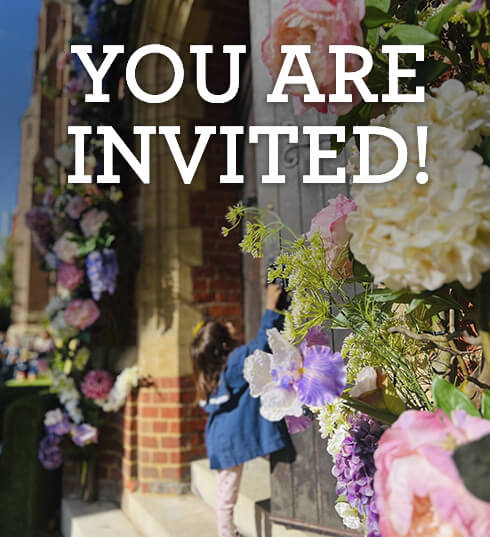
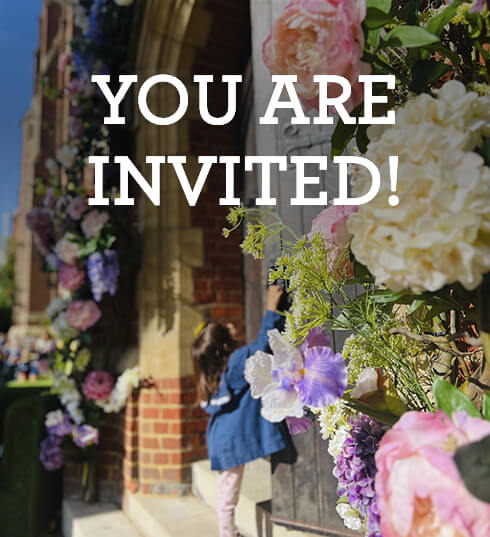
small changes

diff --git a/index.html b/index.html
@@ -172,7 +172,7 @@
                 <tr>
                     <td>&nbsp;</td>
                     <td height="537" colspan="2" class="padding_b">
-                        <img src="https://roberto-unsettled.github.io/NL-invited/main_image.jpg" class="main_image image_regular" alt="You're invited!"/>
+                        <img src="https://roberto-unsettled.github.io/NL-invited/main_image.jpg?v=2" class="main_image image_regular" alt="You're invited!"/>
                     </td>
                     <td>&nbsp;</td>
                 </tr>
@@ -181,7 +181,7 @@
                     <td>&nbsp;</td>
                     <td colspan="2" class="padding_b">
                         <p class="text_regular text_left">
-                            We're thrilled to attach an offer letter for a morning spot starting September 2026, along with our current Terms & Conditions and the Form of Undertaking.
+                            We're thrilled to attach an offer letter for a morning place starting September 2026, along with our current Terms & Conditions and the Form of Undertaking.
                         </p>
                     </td>
                     <td>&nbsp;</td>
@@ -268,14 +268,15 @@
                 
                 <tr>
                     <td width="55" height="0" class="minimum">&nbsp;</td>
-                    <td width="258" height="0" class="minimum">&nbsp;</td>
+                    <td width="243" height="0" class="minimum">&nbsp;</td>
+                    <td width="15" height="0" class="minimum">&nbsp;</td>
                     <td width="232" height="0" class="minimum">&nbsp;</td>
                     <td width="55" height="0" class="minimum">&nbsp;</td>
                 </tr>
                 
                 <tr>
                     <td>&nbsp;</td>
-                    <td colspan="2" class="padding_b">
+                    <td colspan="3" class="padding_b">
                         <p class="text_regular text_left">
                             Once we have those, we’ll send you a confirmation email, and it’s official!
                         </p>
@@ -283,7 +284,7 @@
                     <td>&nbsp;</td>
                 </tr>
                 <tr>
-                    <td colspan="4" class="padding_b_small minimum">&nbsp;</td>
+                    <td colspan="5" class="padding_b_small minimum">&nbsp;</td>
                 </tr>
                 <tr >
                     <td>&nbsp;</td>
@@ -295,17 +296,18 @@
                             Our T&Cs update every year, so we’ll make sure to send you the latest version when the time comes.
                         </p>
                     </td>
+                    <td>&nbsp;</td>
                     <td height="200">
                         <img src="https://roberto-unsettled.github.io/NL-invited/heads_up.jpg" class="image_tc image_regular" alt="Our T&C"/>
                     </td>
                     <td>&nbsp;</td>
                 </tr>
                 <tr>
-                    <td colspan="4" class="padding_b minimum">&nbsp;</td>
+                    <td colspan="5" class="padding_b minimum">&nbsp;</td>
                 </tr>
                 <tr>
                     <td>&nbsp;</td>
-                    <td colspan="2" class="padding_b">
+                    <td colspan="3" class="padding_b">
                         <p class="text_regular text_left">
                             We can’t wait to welcome you and your family to Rocket.
                         </p>
@@ -314,14 +316,14 @@
                 </tr>
                 <tr>
                     <td>&nbsp;</td>
-                    <td height="242" colspan="2" class="padding_b">
+                    <td height="242" colspan="3" class="padding_b">
                         <img src="https://roberto-unsettled.github.io/NL-invited/amazing.jpg" class="image_amazing image_regular" alt="It's going to be amazing!"/>
                     </td>
                     <td>&nbsp;</td>
                 </tr>
                 <tr>
                     <td>&nbsp;</td>
-                    <td colspan="2" class="padding_b">
+                    <td colspan="3" class="padding_b">
                         <p class="text_regular text_left">
                             Best regards,<br/>
                             Megan & Anna
@@ -330,7 +332,7 @@
                     <td>&nbsp;</td>
                 </tr>
                 <tr>
-                    <td colspan="4" class="padding_b_small minimum">&nbsp;</td>
+                    <td colspan="5" class="padding_b_small minimum">&nbsp;</td>
                 </tr>        
             </table>
             </td>
